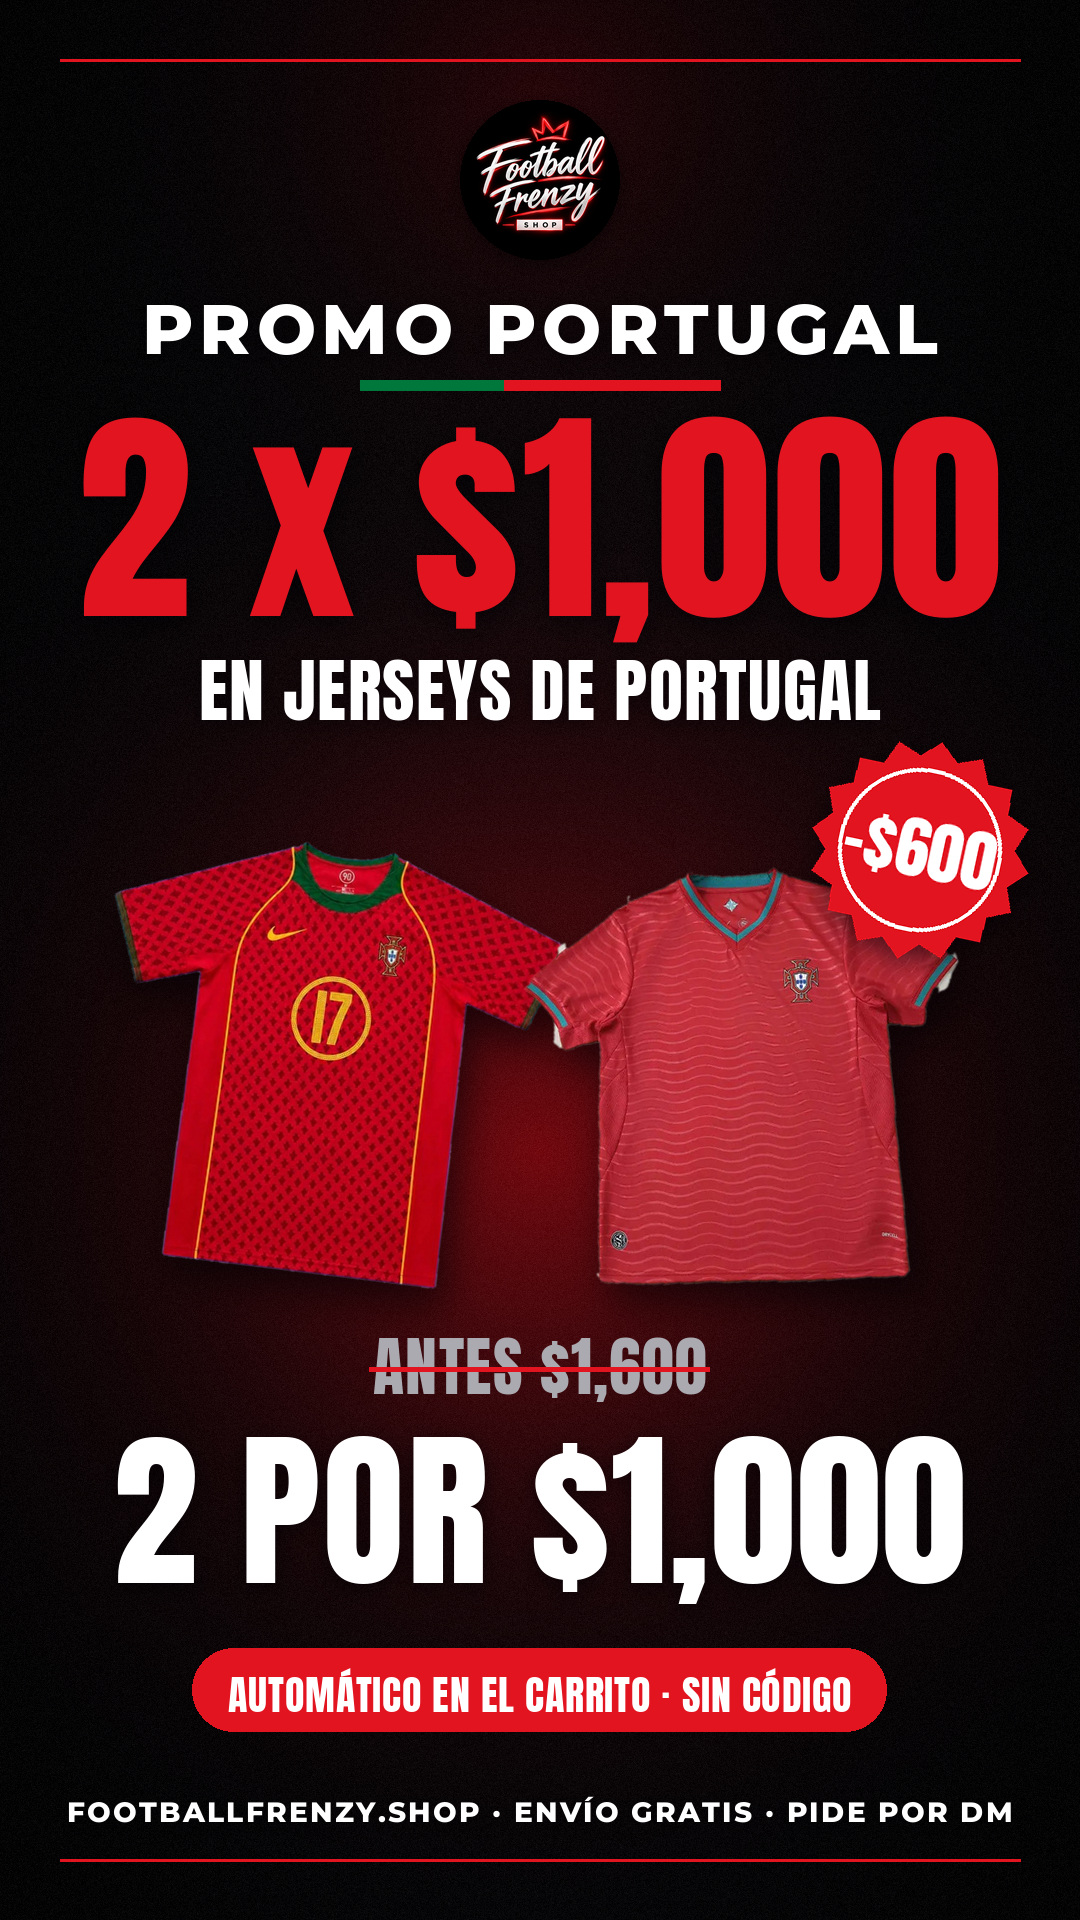
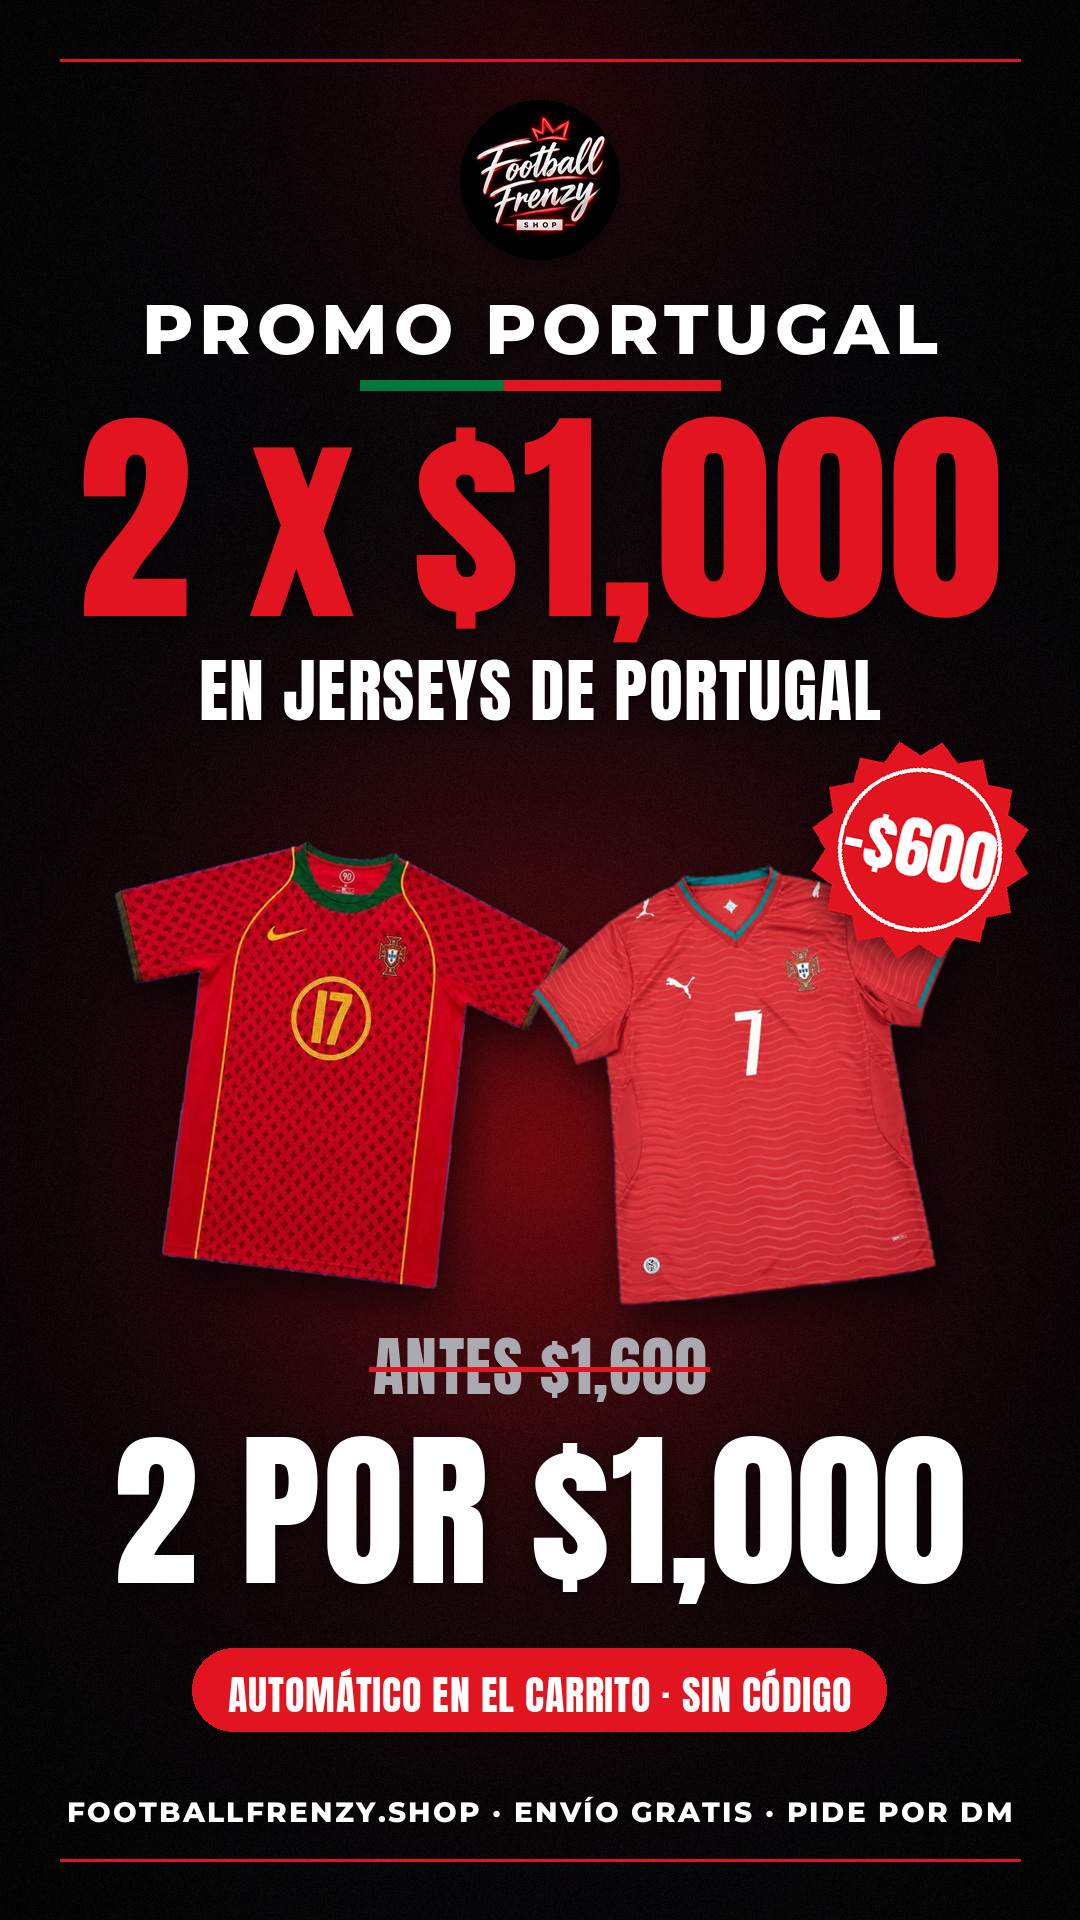
Portugal 2x1000: nuevas fotos de local 2026, visita 2026 y Eusébio 2026
Claude-Session: https://claude.ai/code/session_01Y3XEkftw7SELToetvsGNVM

Changed region(s): [[0.4889, 0.4375, 0.8861, 0.6875]]

diff --git a/ads/portugal_2x1000.py b/ads/portugal_2x1000.py
@@ -15,8 +15,8 @@ W, H = 1080, 1920
 GREEN = (0, 120, 60)
 P = g.SRC + "portugal/"
 MODELS = [  # (image, name) — the 6 products in the automatic discount
-    ("pt2004_cr7.png", "RETRO 2004 · CR7"), ("pt2026_home.png", "LOCAL 2026"), ("pt2026_away_ls_src.jpg", "VISITA 2026 M/L"),
-    ("pt_eusebio.png", "EUSÉBIO 2026"), ("pt_eusebio25.png", "EUSÉBIO 2025"), ("pt_eusebio25_ls.png", "EUSÉBIO 2025 M/L"),
+    ("pt2004_cr7.png", "RETRO 2004 · CR7"), ("pt2026_home7.png", "LOCAL 2026"), ("pt2026_away.png", "VISITA 2026"),
+    ("pt_eusebio26.png", "EUSÉBIO 2026"), ("pt_eusebio25.png", "EUSÉBIO 2025"), ("pt_eusebio25_ls.png", "EUSÉBIO 2025 M/L"),
 ]
 
 
@@ -40,7 +40,7 @@ def hero():
     put(c, red("2 x $1,000", 230, 0.01), W / 2, 530)
     put(c, white("EN JERSEYS DE PORTUGAL", 70, 0.02), W / 2, 690)
     put(c, jersey("portugal/pt2004_cr7.png", 430, -7), W / 2 - 215, 1060)
-    put(c, jersey("portugal/pt2026_home.png", 430, 7), W / 2 + 215, 1080)
+    put(c, jersey("portugal/pt2026_home7.png", 430, 7), W / 2 + 215, 1080)
     put(c, burst(110, "-$600"), W / 2 + 380, 850)
     price_block(c, 1370)
     put(c, pill("AUTOMÁTICO EN EL CARRITO · SIN CÓDIGO", 40), W / 2, 1690)
